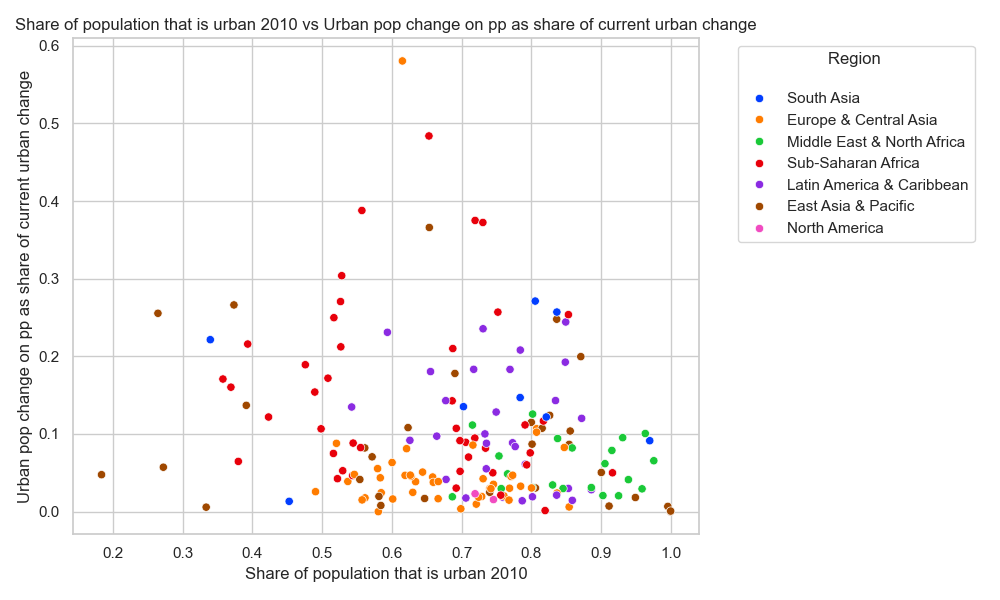
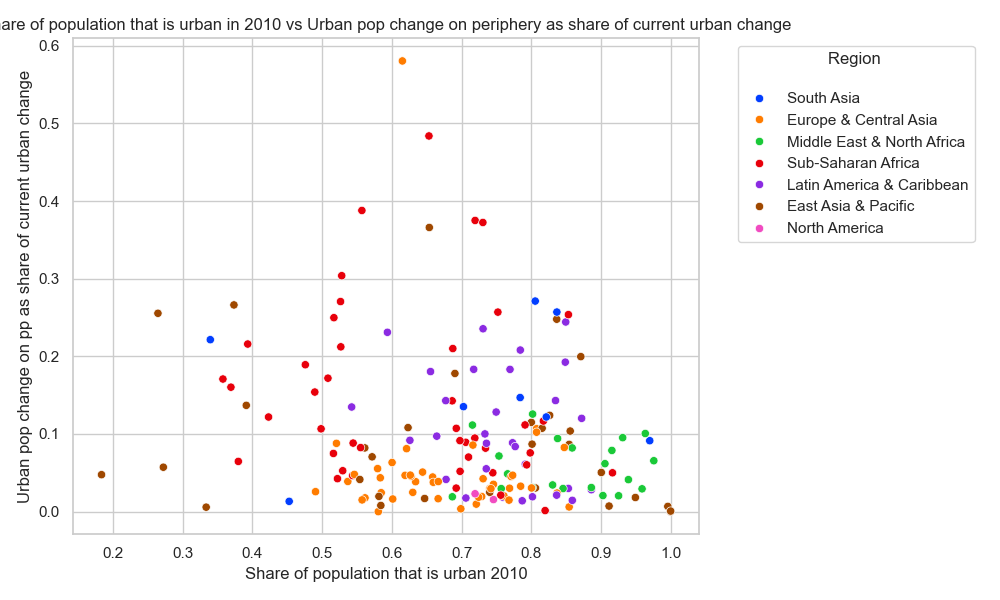
fixed bugs

Changed region(s): [[0.0, 0.03, 0.806, 0.06]]

diff --git a/plots.py b/plots.py
@@ -81,7 +81,7 @@ plt.figure(figsize=(10, 6))
 sns.scatterplot(data=dt, y=y_axis, x=x_axis, hue="Region", palette="bright")
 plt.xlabel("Total growth rate for current urban area")
 plt.ylabel("Urban pop change on pp as share of current urban change")
-plt.title("Urban Growth Rate vs Urban pop change on pp as share of current urban change")
+plt.title("Urban Growth Rate vs Urban pop change on periphery as share of current urban change")
 plt.legend(bbox_to_anchor=(1.05, 1.0), loc='upper left', title="Region \n")
 plt.tight_layout()
 plt.savefig(results1 + r"\Urban Growth Rate vs Urban pop change on pp as share of current urban change.png")
@@ -95,7 +95,7 @@ plt.figure(figsize=(10, 6))
 sns.scatterplot(data=dt, y=y_axis, x=x_axis, hue="Region", palette="bright")
 plt.xlabel("Share of population that is urban 2010")
 plt.ylabel("Urban pop change on pp as share of current urban change")
-plt.title("Share of population that is urban 2010 vs Urban pop change on pp as share of current urban change")
+plt.title("Share of population that is urban 2010 vs Urban pop change on periphery as share of current urban change")
 plt.legend(bbox_to_anchor=(1.05, 1.0), loc='upper left', title="Region \n")
 plt.tight_layout()
 plt.savefig(results1 + r"\Share of population that is urban 2010 vs Urban pop change on pp as share of current urban change.png")
@@ -143,7 +143,7 @@ dt["shOfPopUrban2010"] = dt["UrbanPopulation2010"]/dt["Population2010"]
 plt.figure(figsize=(10, 6))
 sns.scatterplot(data=dt, x="urbanGrowthRate", y="shOfUrbanPopinPeri", hue="Region", palette="bright")
 plt.xlabel("Urban Growth Rate")
-plt.ylabel("Share of Population Population on the Periphery")
+plt.ylabel("Share of Urban Population on the Periphery")
 plt.title("Urban Growth Rate vs Share of Urban Population on Periphery 2010/2020")
 plt.legend(bbox_to_anchor=(1.05, 1.0), loc='upper left', title="Region \n")
 plt.tight_layout()
@@ -156,7 +156,7 @@ plt.savefig(results2 + r"\Urban Growth Rate vs Share of Urban Population on Peri
 plt.figure(figsize=(10, 6))
 sns.scatterplot(data=dt, x="shOfPopUrban2010", y="shOfUrbanPopinPeri", hue="Region", palette="bright")
 plt.xlabel("Urban Population Share in 2010")
-plt.ylabel("Share of Population Population on the Periphery")
+plt.ylabel("Share of Urban Population on the Periphery")
 plt.title("Urban Population Share in 2010 vs Share of Urban Population on Periphery")
 plt.legend(bbox_to_anchor=(1.05, 1.0), loc='upper left', title="Region \n")
 plt.tight_layout()
@@ -192,7 +192,7 @@ plt.figure(figsize=(10, 6))
 sns.scatterplot(data=dt, y=y_axis, x=x_axis, hue="Region", palette="bright")
 plt.xlabel("Total growth rate for current urban area")
 plt.ylabel("Urban pop change on pp as share of current urban change")
-plt.title("Urban Growth Rate vs Urban pop change on pp as share of current urban change")
+plt.title("Urban Growth Rate vs Urban pop change on periphery as share of current urban change")
 plt.legend(bbox_to_anchor=(1.05, 1.0), loc='upper left', title="Region \n")
 plt.tight_layout()
 plt.savefig(results2 + r"\Urban Growth Rate vs Urban pop change on pp as share of current urban change.png")
@@ -207,7 +207,7 @@ plt.figure(figsize=(10, 6))
 sns.scatterplot(data=dt, y=y_axis, x=x_axis, hue="Region", palette="bright")
 plt.xlabel("Share of population that is urban 2010")
 plt.ylabel("Urban pop change on pp as share of current urban change")
-plt.title("Share of population that is urban 2010 vs Urban pop change on pp as share of current urban change")
+plt.title("Share of population that is urban in 2010 vs Urban pop change on periphery as share of current urban change")
 plt.legend(bbox_to_anchor=(1.05, 1.0), loc='upper left', title="Region \n")
 plt.tight_layout()
 plt.savefig(results2 + r"\Share of population that is urban 2010 vs Urban pop change on pp as share of current urban change.png")
@@ -225,7 +225,7 @@ plt.figure(figsize=(10, 6))
 sns.scatterplot(data=dt, y=y_axis, x=x_axis, hue="Region", palette="bright")
 plt.xlabel("Share of population that is urban 2010")
 plt.ylabel("Total growth rate for current urban area")
-plt.title("Share of population that is urban 2010 vs Total growth rate for current urban area")
+plt.title("Share of population that is urban in 2010 vs Total growth rate for current urban area")
 plt.legend(bbox_to_anchor=(1.05, 1.0), loc='upper left', title="Region \n")
 plt.tight_layout()
 plt.savefig(results2 + r"\Share of population that is urban 2010 vs total growth rate for current urban area.png")

diff --git a/tables.py b/tables.py
@@ -378,7 +378,7 @@ maintableIncomegroup = pd.DataFrame()
 maintableIncomegroup["Category"] = t1Incomegroup["Income group"]
 maintableIncomegroup["Count"] = t1IncomegroupCount["Population2020"]["count"]
 maintableIncomegroup["Population2020"] = t1Incomegroup["Population2020"]["sum"]
-maintableIncomegroup["popChangein2030"] = t1Incomegroup["PopChange_2020-2030"]["sum"]
+maintableIncomegroup["popChangein2020_2030"] = t1Incomegroup["PopChange_2020-2030"]["sum"]
 maintableIncomegroup["UrbanPopulation2020"] = t1Incomegroup["UrbanPopulation2020"]["sum"]
 maintableIncomegroup["urbanPopChange2020_2030"] = t1Incomegroup["UrbanPopulation2030"]["sum"] - t1Incomegroup["UrbanPopulation2020"]["sum"]
 maintableIncomegroup["UrbanPopulation_10YearLag2030"] = t1Incomegroup["UrbanPopulation_10YearLag2030"]["sum"]
